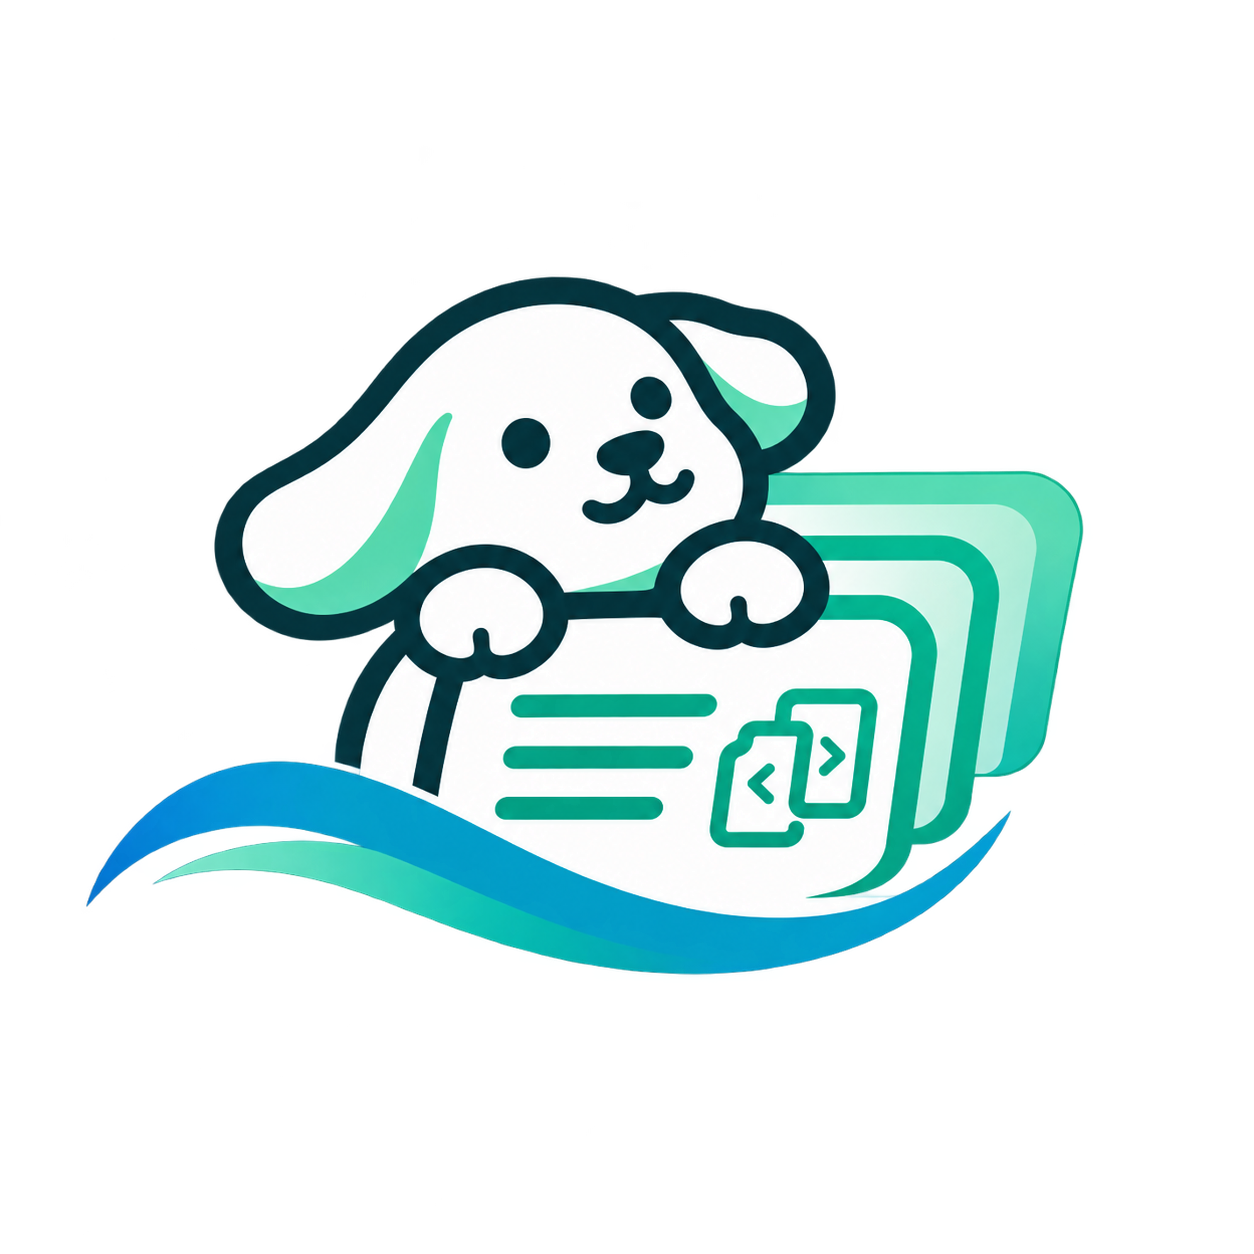
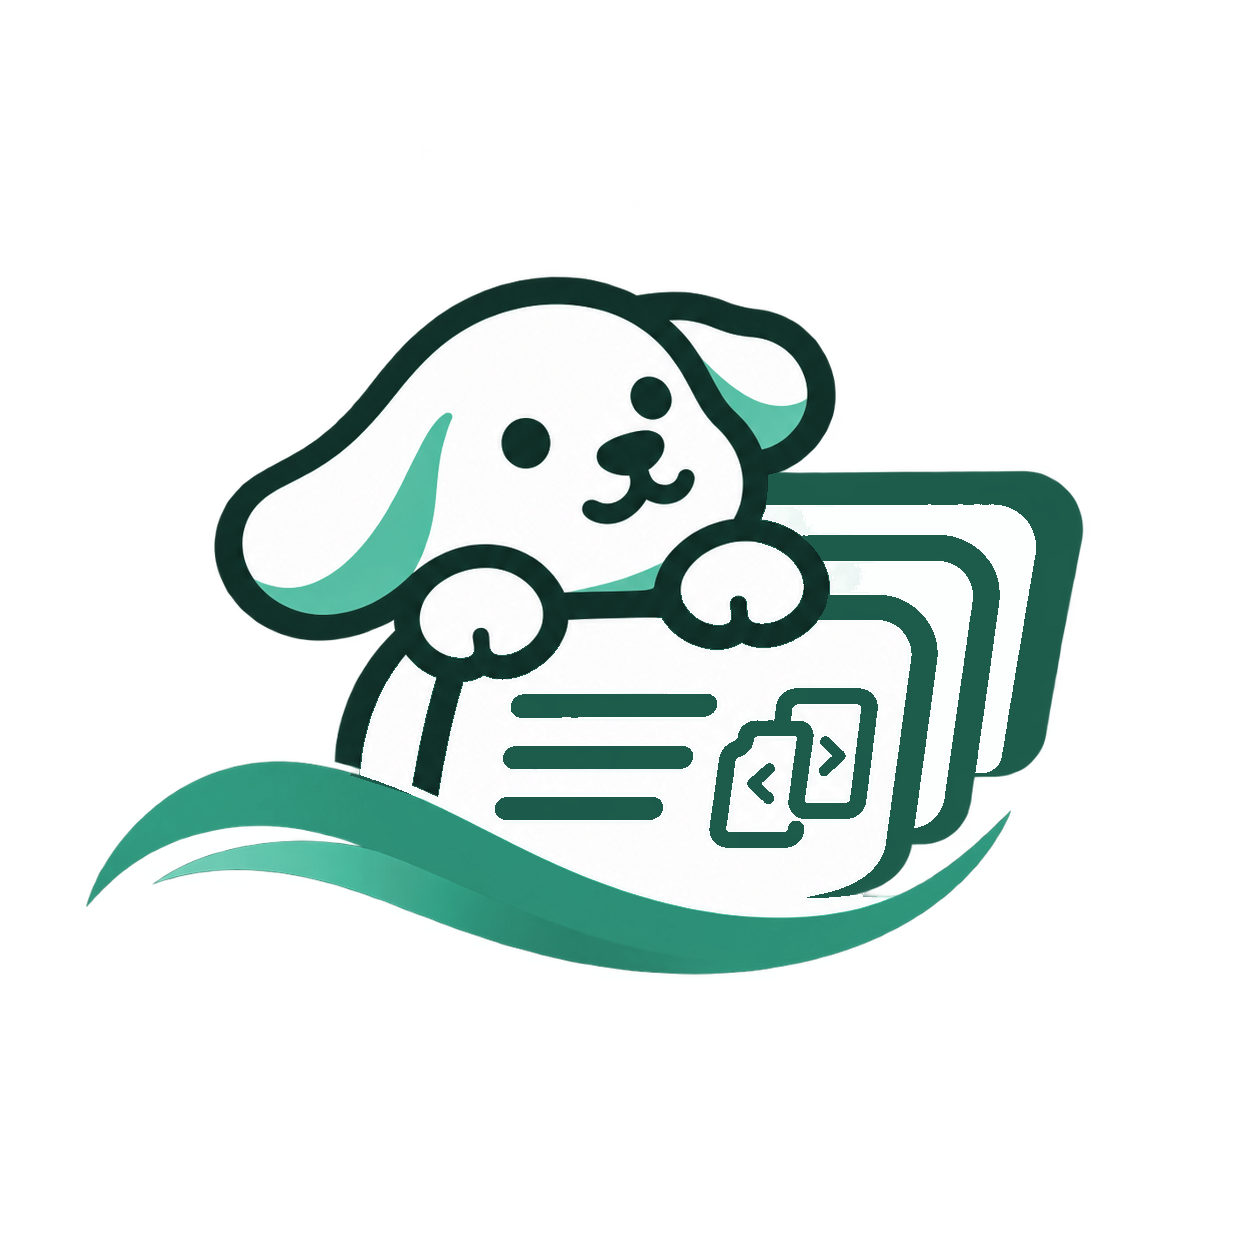
feat: 헤더 로고 이미지(rogo 2.png) 적용 및 챗봇 이미지(chatbot-typing-0-1-2-3.gif) 교체

Changed region(s): [[0.0622, 0.2799, 0.8708, 0.7775], [0.2177, 0.311, 0.3732, 0.4976], [0.4665, 0.4354, 0.5287, 0.4976]]

diff --git a/src/components/common/Header.jsx b/src/components/common/Header.jsx
@@ -8,6 +8,7 @@ import InvitationMenu from './InvitationMenu';
 import { useAuthStore } from '../../store/authStore';
 import { authService } from '../../services/authService';
 import { expireSession } from '../../services/session';
+import logoImg from '../../assets/rogo 2.png';
 
 export default function Header({ menuOpen = false, onMenuClick, onInvitationAccepted }) {
   const navigate = useNavigate();
@@ -38,8 +39,8 @@ export default function Header({ menuOpen = false, onMenuClick, onInvitationAcce
       >
         <Icon name="menu" />
       </button>
-      <Link to="/" className="min-w-0 truncate text-[length:clamp(14px,calc((100vw_-_280px)/5.5),18px)] font-bold text-white md:text-heading">
-        DoQFlow AI
+      <Link to="/" className="flex shrink-0 items-center">
+        <img src={logoImg} alt="DoQFlow AI" className="h-11 w-auto object-contain" />
       </Link>
       <div className="flex-1" />
       <InvitationMenu onAccepted={onInvitationAccepted} />

diff --git a/src/components/chat/ChatMessage.jsx b/src/components/chat/ChatMessage.jsx
@@ -2,7 +2,7 @@
 import PropTypes from 'prop-types';
 import { Link } from 'react-router-dom';
 import chatbotIdle from '../../assets/chatbot-no-bubble.png';
-import chatbotTyping from '../../assets/chatbot-typing-0-to-3.gif';
+import chatbotTyping from '../../assets/chatbot-typing-0-1-2-3.gif';
 
 export default function ChatMessage({ role, content, sources = [], masked = false, streaming = false }) {
     const isUser = role === 'user';
